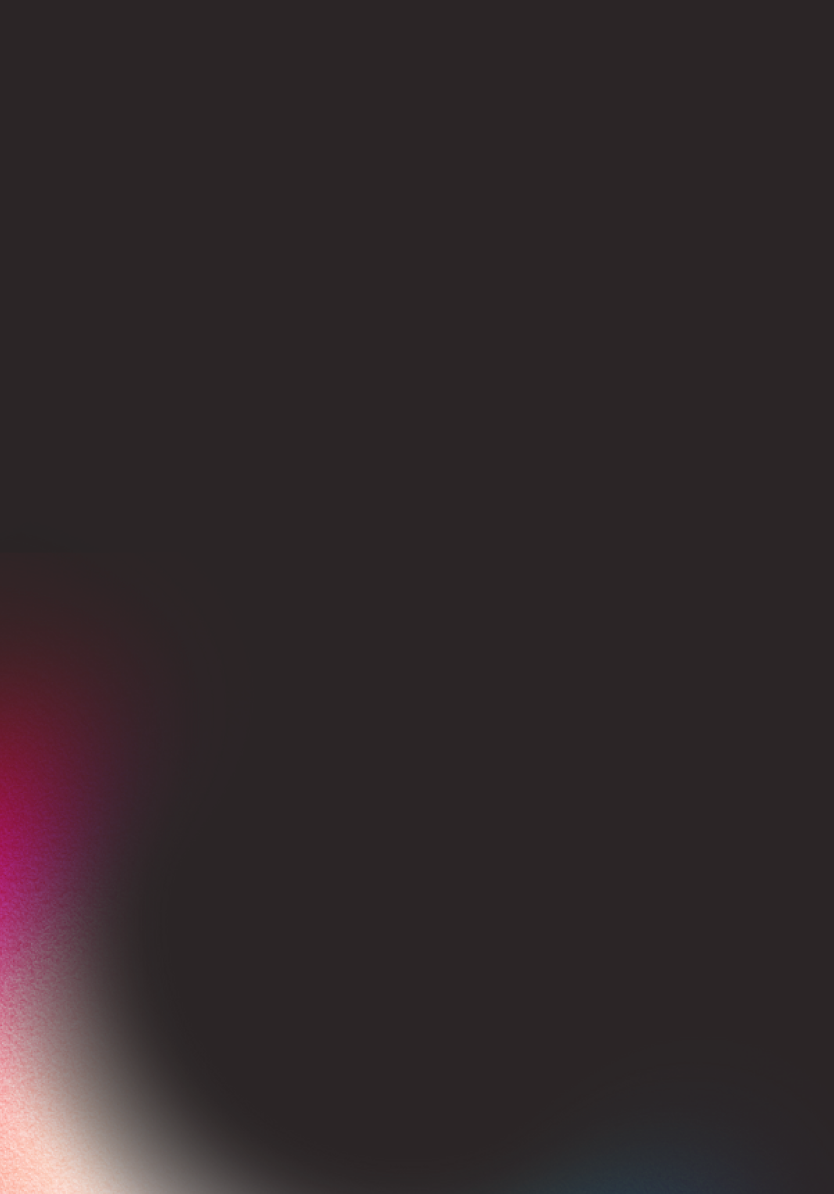
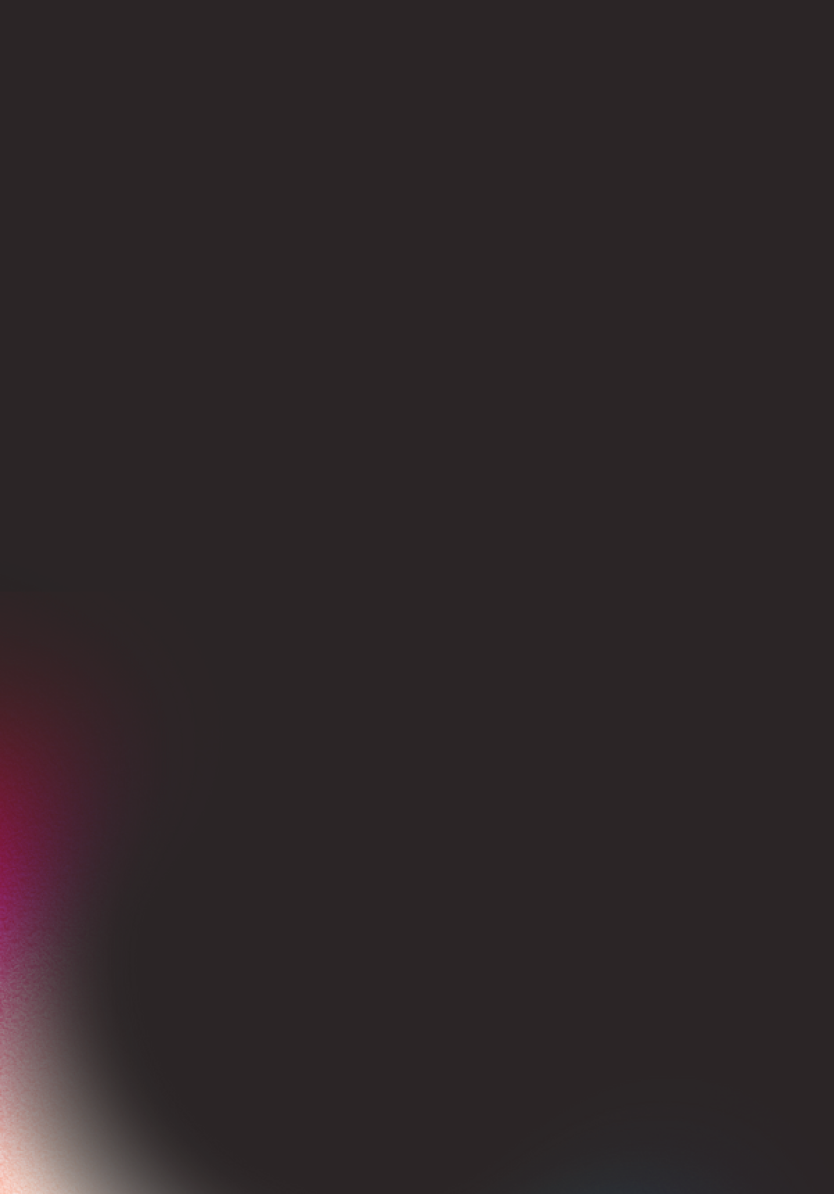
feat: add requirements page background

Changed region(s): [[0.0, 0.5888, 0.3429, 1.0]]

diff --git a/pages/requirements.vue b/pages/requirements.vue
@@ -76,12 +76,12 @@ const contacts = [
         class="w-full grow mt-8"
         flex="~ col xl:row"
         style="
-          background-image: url('/bg/home-2-wide.png');
+          background-image: var(--bg-image);
           background-repeat: no-repeat;
           background-size: cover;
         "
       >
-        <div class="justify-center w-full px-8" xl="w-40% px-16" flex="~ col">
+        <div class="justify-center w-full p-12" xl="w-40% p-16" flex="~ col">
           <NuxtLink class="mb-4" to="/">
             <div class="i-ph:arrow-left" text="white 2rem"></div>
           </NuxtLink>
@@ -93,7 +93,7 @@ const contacts = [
             Requirements</span
           >
           <span text="1rem white">
-            Want to take part in Lab Assistant 2021 selection? <br />There are
+            Want to take part in Lab Assistant 2023 selection? <br />There are
             some things that you must prepare beforehand. <br />
             See the timeline for more information.
           </span>
@@ -124,10 +124,10 @@ const contacts = [
           </div>
         </div>
         <div
-          class="w-full relative px-8"
-          xl="w-60% overflow-y-scroll max-h-[calc(100vh-6rem)] px-16"
+          class="w-full relative p-12"
+          xl="w-60% overflow-y-scroll max-h-[calc(100vh-6rem)] p-16"
         >
-          <div class="border-l-2 mt-10">
+          <div class="border-l-2">
             <TimelineCard
               v-for="(event, i) in events"
               :key="i"
@@ -140,3 +140,15 @@ const contacts = [
     </div>
   </main>
 </template>
+
+<style scoped>
+main {
+  --bg-image: url('/bg/timeline-narrow.png');
+}
+
+@media (min-width: 1280px) {
+  main {
+    --bg-image: url('/bg/timeline-wide.png');
+  }
+}
+</style>

diff --git a/pages/index.vue b/pages/index.vue
@@ -172,7 +172,7 @@ const members = [
           <p text="xl:2xl xl" class="leading-loose mt-4">
             Register now to be a part of our big family. <br />
             Gain all the benefits and valuable experience in your life! <br />
-            - Laboratory Assistant 2021
+            - Laboratory Assistant 2023
           </p>
           <NuxtLink to="/requirements">
             <button

diff --git a/pages/faq.vue b/pages/faq.vue
@@ -45,7 +45,7 @@ const contacts = [
 
 <template>
   <main class="absolute inset-0">
-    <div class="max-h-screen bg-[#2b2526]" flex="~ col">
+    <div class="h-screen bg-[#2b2526]" flex="~ col">
       <div
         class="h-fit justify-center p-12 xl:p-24 grow"
         flex="~ col"
